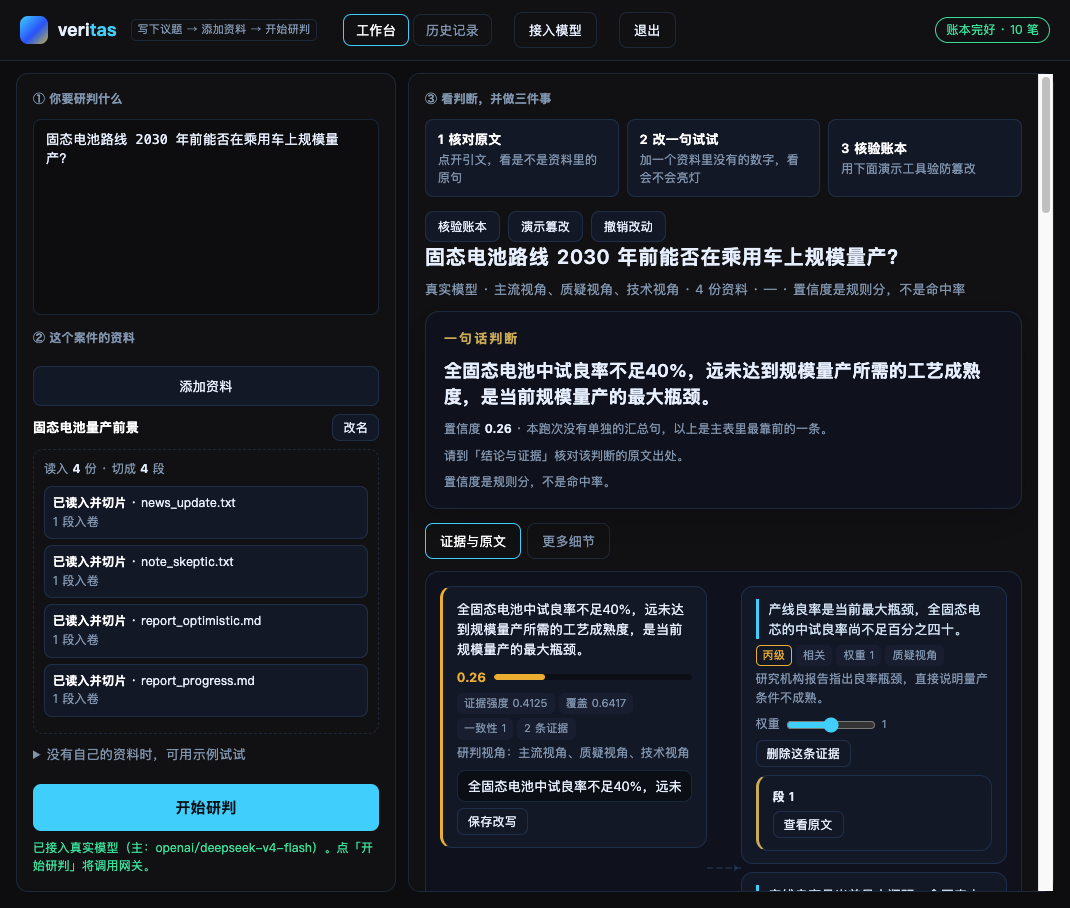
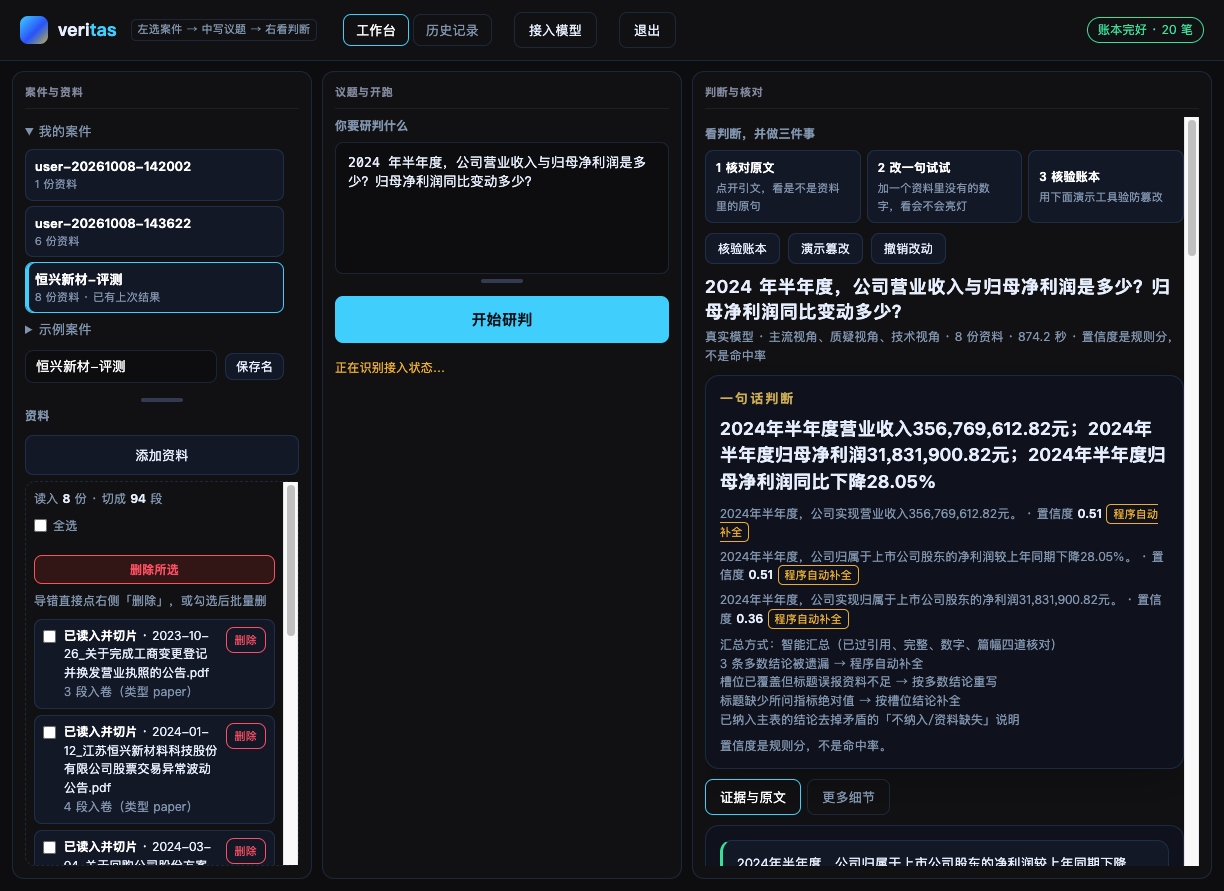
docs(比赛PPT): 交件/现场讲解贴合三栏工作台与恒兴实测。
生成脚本同步赛制口径与答辩卡；总览截图换成当前恒兴三栏界面（桌面 pptx 由脚本覆盖写出）。

Changed region(s): [[0.0, 0.0, 0.9869, 1.0], [0.3084, 0.4545, 0.3701, 0.4848]]

diff --git a/scripts/build_contest_pptx.py b/scripts/build_contest_pptx.py
@@ -149,25 +149,27 @@ def build_submission() -> Path:
     ], size=15)
 
     s = _new(prs)
-    _title(s, "3. 产品形态：工作台怎么用")
+    _title(s, "3. 产品形态：三栏工作台")
     _body(s, [
-        "用户路径：写下议题 → 添加资料（文件夹/文件）→ 开始研判 → 核对",
+        "界面：左选案件与资料 · 中写议题并开跑 · 右看判断与核对",
+        "路径：选/建案件 → 添加资料 → 写议题 → 开始研判（可看进度 / 可终止）→ 核对",
         "",
         "工作台里能做的事：",
         "· 三级下钻：结论 → 引文 → 原文",
-        "· 看冲突、质证、裁决与少数意见",
-        "· 改结论 / 调权重 / 删证据 → 置信度与综合意见重算",
+        "· 看冲突、质证、裁决与少数意见；主席层给一句话正面回答",
+        "· 改结论 / 调权重 / 删证据 → 置信度与综合意见重算并入账本",
         "· 核验账本；「改一字即红」篡改演示",
-        "· 接入模型（Base URL + Key + 多模型 ID）；无 Key 可走演示桩",
+        "· 接入模型（Base URL + Key + 多模型）；无 Key 可走演示桩",
+        "· 议题未齐（缺期间 / 主体等）机械回读早停，不瞎填数字",
         "",
-        "三个案例同一引擎：固态电池 · 数据中台交付风险 · 谣言 vs 官方通报",
-    ], size=15)
+        "演示案例同一引擎：固态电池 · 数据中台 · 谣言vs官方 · 恒兴真公告评测",
+    ], size=14)
 
     # 交件无视频时，截图是评委「看见产品」的主通道——对齐演示三动作
     _shot_slide(
         prs, "产品演示① 工作台总览",
         "01-overview.png",
-        "议题 → 资料 → 研判结果；右上角账本状态可核验",
+        "三栏：左案件资料 · 中议题开跑 · 右判断核对；右上角账本可核验",
     )
     _shot_slide(
         prs, "产品演示② 结论 → 引文 → 原文",
@@ -191,31 +193,32 @@ def build_submission() -> Path:
         "零 LLM 机械闸（可复现、可测试）：",
         "· 引文逐字核对 · 数字复算 / 溯源 · 归并守恒 · 质证与仲裁引用核对",
         "· 议题前提 · 时序 / as-of · 事实对撞台账 · 注入扫描",
+        "· 答案槽位契约：缺期间/主体早停；标题误报「资料不足」可按多数结论纠偏",
         "",
         "协调不是投票：独立写 → 对立就吵 → 程序算证据强度 → 少数意见保留",
+        "主席汇总：正面回答议题；漏点程序补全；矛盾「不纳入」说明会清掉",
         "人是最高权限：改动进哈希链，可审计，也可一键重置",
         "",
         "诚实边界（答辩必讲）：",
         "· 置信度是规则融合分，不是校准概率",
         "· 因果是标注加权，不是完整因果推断引擎",
         "· 哈希链是过程账本，不是数字证书 PKI",
-    ], size=15)
+    ], size=14)
 
     s = _new(prs)
-    _title(s, "4b. 评测三数（主张有实测）")
+    _title(s, "4b. 评测与真公告实测")
     _body(s, [
-        "标注集 eval/benchmark.jsonl（≥30 条）· 脚本 scripts/run_eval.py",
+        "① 标注集三指标（零 LLM，可复现）· eval/benchmark.jsonl + scripts/run_eval.py",
+        "· BM25 Recall@K · 冲突召回 · 编造检出（假引文必拒）",
         "",
-        "· BM25 Recall@K —— 金标段落是否进 Top-K（含同义盲区探针）",
-        "· 冲突召回率 —— 标注对立对的机械对立召回（可复现）",
-        "· 编造检出率 —— 假引文必拒、真引文必过（主轴可信抓手）",
+        "② 真公告实测（工作台真模型）· 恒兴新材 8 份巨潮公告 / 10 问",
+        "· 覆盖产销、分红、异动、年报/中报、回购对撞、工商、股权、负向资料不足",
+        "· 约 9.5/10；成绩单 eval/hengxing-10q-scorecard.md；答辩卡 hengxing-defense.md",
+        "· 现场可切「恒兴新材-评测」看 Q8：营收 / 归母净利 / 同比三数齐",
         "",
-        "已知短板不藏：BM25 无语义（应收账款↔回款）；语义 rerank 是演进口子",
-        "难 PDF：默认轻量抽字；扫描件披露；Docling 可插拔（非默认依赖）",
-        "版式解析产物低可信入卷，假引文/来源外数字仍过机械闸",
-        "安全硬化（认证 / 签名密钥）属产品化，赛内讲清本机边界即可",
-        "数字以现场重跑 eval-report.json 为准，不背死分数",
-    ], size=15)
+        "已知短板不藏：BM25 无语义；难 PDF 默认轻量抽字，Docling 可插拔非默认",
+        "数字以现场重跑 / 工作台样例为准，不背死分数",
+    ], size=14)
 
     s = _new(prs)
     _title(s, "4c. 难 PDF / 版式：诚实边界")
@@ -242,16 +245,19 @@ def build_submission() -> Path:
     ])
 
     s = _new(prs)
-    _title(s, "6. 交付与验证")
+    _title(s, "6. 交付与验证（贴合赛制）")
     _body(s, [
-        "· 源码 + 一键部署（Windows / macOS），断网可用离线演示兜底",
-        "· 自动化测试全桩零密钥全绿（持续回归）",
-        "· 工作台可现场实测：下钻 / 改数字亮灯 / 篡改变红",
-        "· 方案文档：docs/proposal.md 与正式版材料",
+        "评审权重：原型实测 70% + 方案答辩 30%",
+        "交件通道：智汇科学城小程序 → 方案 PPT + 方案文档 + 源码包（本轮不要求演示视频）",
+        "",
+        "· 源码 + 一键部署（Windows / macOS）；断网可用离线演示桩兜底",
+        "· 自动化测试全桩零密钥全绿；工作台可现场三动作实测",
+        "· 方案文档：docs/proposal.md；现场另备讲解 PPT + 工作台 live",
+        "· 真公告样例与成绩单入库，答辩可指屏",
         "",
         "收束三句话：",
         "挂得住原文 · 吵得清并保留少数意见 · 改得明且入账本",
-    ])
+    ], size=15)
 
     s = _new(prs)
     box = s.shapes.add_textbox(Inches(0.8), Inches(2.8), Inches(11.5), Inches(2))
@@ -292,7 +298,7 @@ def build_onsite() -> Path:
     _set_run(r, size=22, color=FG)
     p = tf.add_paragraph()
     r = p.add_run()
-    r.text = "工作台 http://127.0.0.1:8765/  ·  建议案例：固态电池 / 谣言vs官方"
+    r.text = "工作台 http://127.0.0.1:8765/  ·  流程案：固态电池  ·  被问真公告：恒兴新材"
     _set_run(r, size=14, color=DIM)
     _notes(s, "开场 25 秒。背一句：可信不是模型说得更像，而是三件事当场能查。")
 
@@ -303,10 +309,11 @@ def build_onsite() -> Path:
         "意见对立 → 质证 → 裁决；落败意见保留，不删。",
         "最后有一份综合意见，正面回答议题。",
         "",
-        "今天只演示三个动作。",
+        "今天只演示三个动作（流程用固态电池）。",
+        "被问「测过真公告吗」再切恒兴新材——不要主动抢讲。",
         "（屏幕切到工作台，不要停在 PPT 上讲架构。）",
     ])
-    _notes(s, "切工作台。案例用固态电池或谣言案。勿主动念闸族名单。")
+    _notes(s, "切工作台三栏。流程案固态电池；真公告被问再切恒兴。勿念闸族名单。")
 
     s = _new(prs)
     _title(s, "动作一：点开原文（约 70 秒）")
@@ -351,15 +358,31 @@ def build_onsite() -> Path:
     _notes(s, "收束后停。编队/MCP/置信度定义等评委问再答。")
 
     s = _new(prs)
+    _title(s, "可选：被问真公告 → 切恒兴（约 40 秒）")
+    _body(s, [
+        "屏幕：案件「恒兴新材-评测」→ 已有 Q8 结果（或点开历史）",
+        "议题：2024 半年度营收、归母净利、同比变动各是多少？",
+        "",
+        "指三下：",
+        "· 综合意见标题三数齐：356,769,612.82 / 31,831,900.82 / -28.05%",
+        "· 证据与原文 → 半年度报告摘要表行",
+        "· 核验账本仍绿",
+        "",
+        "口播一句：固态电池是流程；恒兴是 8 份巨潮公告、10 问约 9.5/10。",
+    ], size=15)
+    _notes(s, "对照 eval/hengxing-defense.md。勿展开 Docling / 槽位调试史。")
+
+    s = _new(prs)
     _title(s, "评委常问（备答，不要主动展开）")
     _body(s, [
         "和群聊 Agent 有何不同？→ 独立写、再裁决、输的留着、假引文打回",
         "0.73 是什么？→ 规则分不是概率；能拆开看、改完能重算",
+        "测过真公告吗？→ 恒兴 8 份公告 / 10 问约 9.5/10；现场可切看 Q8",
         "断网 / 无 Key？→ 离线演示桩仍可完整跑通流程",
         "图片没读？→ 披露「没读」，假装读过比漏掉更贵",
         "怎么接到现有系统？→ MCP：读报告、验链、结论按契约入卷",
         "换题目还灵吗？→ 换资料夹 + 换议题；编队可用 roster 配置",
-    ], size=15)
+    ], size=14)
     _notes(s, "本页仅自己看。现场以工作台 live 为主，PPT 翻到动作页提醒节奏即可。")
 
     s = _new(prs)
